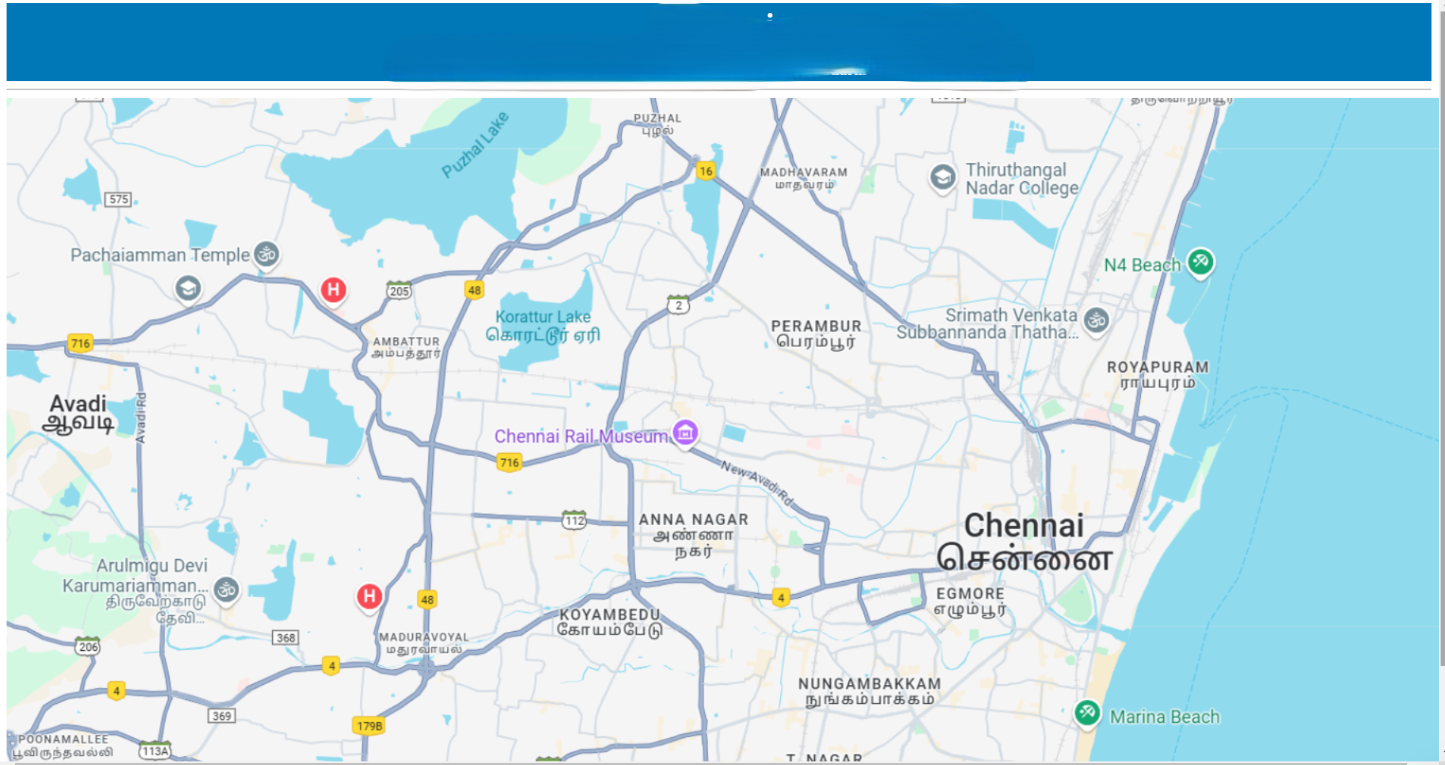
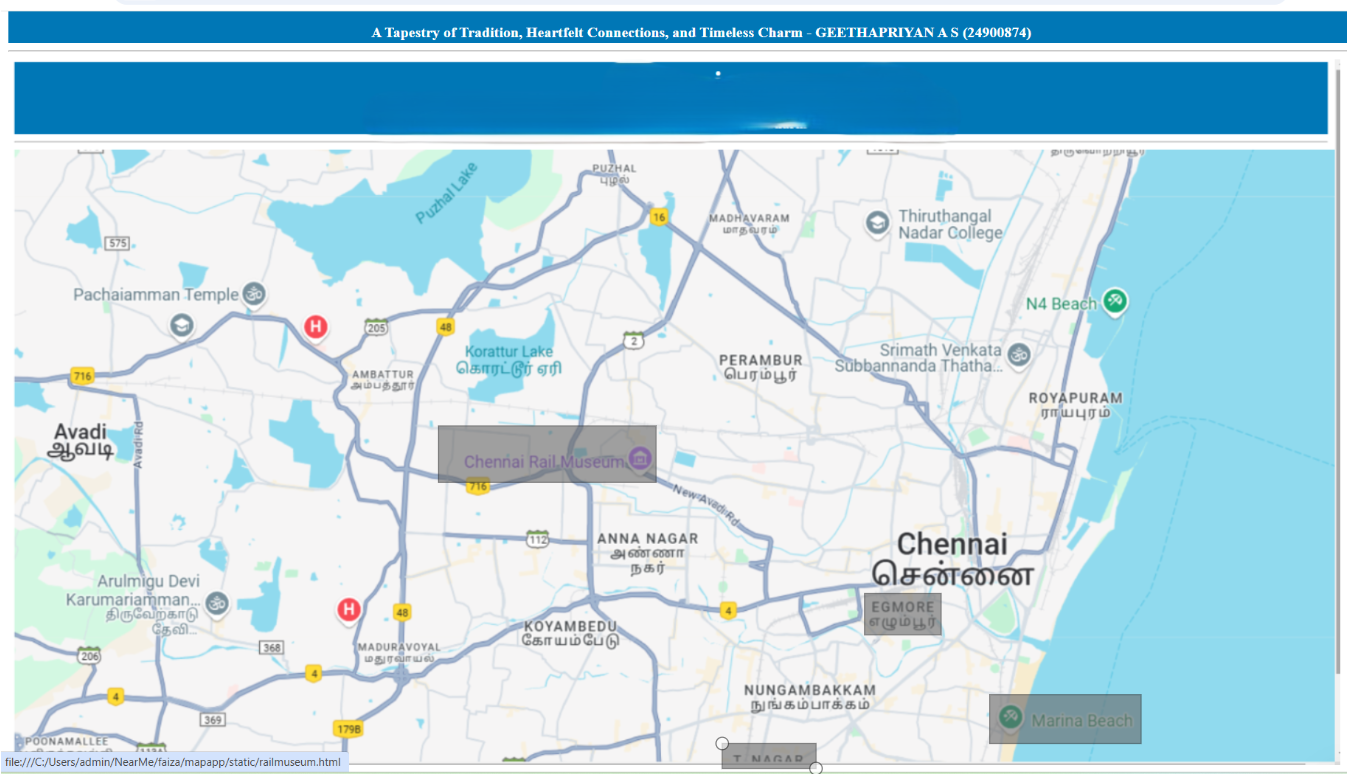
Success

diff --git a/varshini2/app5/static/home.html b/varshini2/app5/static/home.html
@@ -4,7 +4,7 @@
 </head>
 <body bgcolor="#fff3e0">
 <h1 align="center">
-<font color="#36454F"><b>VADAPALANI</b></font>
+<font color="#36454F"><b>ANNA NAGAR</b></font>
 </h1>
 <h3 align="center">
 <font color="#FFD700"><b>My Home Town</b></font>
@@ -12,7 +12,7 @@
 <hr size="3" color="#ffccbc">
 <p align="justify">
 <font face="Georgia" size="5" color="#212121">
-     vadapalani in koyambedu is very peaceful.residential area that offers a perfect blend of modern amenities and natural beauty. The locality is known for its friendly, close-knit community, where neighbors know each other well. With plenty of greenery, open spaces, and parks, it provides a calm environment away from the hustle and bustle of city life. The area is well-connected to major roads and public transport, making it easy to commute to other parts of Chennai. Local shops and markets offer everyday conveniences, while nearby schools and hospitals add to its appeal. The Porur Lake is a popular spot for relaxation and outdoor activities. Mangala Nadar is ideal for families, offering a safe, family-oriented atmosphere. The growing infrastructure and development around the area continue to improve living standards. The sense of community and cultural ties make Mangala Nadar a truly special place. It’s a great place to call home, offering both tranquility and convenience.
+     annanagar in koyambedu is very peaceful.residential area that offers a perfect blend of modern amenities and natural beauty. The locality is known for its friendly, close-knit community, where neighbors know each other well. With plenty of greenery, open spaces, and parks, it provides a calm environment away from the hustle and bustle of city life. The area is well-connected to major roads and public transport, making it easy to commute to other parts of Chennai. Local shops and markets offer everyday conveniences, while nearby schools and hospitals add to its appeal. The Porur Lake is a popular spot for relaxation and outdoor activities. Mangala Nadar is ideal for families, offering a safe, family-oriented atmosphere. The growing infrastructure and development around the area continue to improve living standards. The sense of community and cultural ties make Mangala Nadar a truly special place. It’s a great place to call home, offering both tranquility and convenience.
 
 </font>
 </p>
@@ -20,20 +20,4 @@
 </html>
 
 
-</font>
-</p>
-</body>
-</html>
 
-
-
-</font>
-</p>
-</body>
-</html>
-
-
-</font>
-</p>
-</body>
-</html>

diff --git a/varshini2/app5/static/college.html b/varshini2/app5/static/college.html
@@ -4,17 +4,16 @@
 </head>
 <body bgcolor="#f5f5f5">
 <h1 align="center">
-<font color="#2e3a87"><b>The Tamil Nadu Dr. M.G.R. Medical University</b></font>
+<font color="#2e3a87"><b>ACS MEDICAL COLLEGE</b></font>
 </h1>
 <h3 align="center">
-<font color="#ff6347"><b>Chennai's Top Government University</b></font>
+<font color="#ff6347"><b>ITS FAMOUS FOR DOCTOR</b></font>
 </h3>
 <hr size="3" color="#dcdcdc">
 <p align="justify">
 <font face="Arial, sans-serif" size="4" color="#333333">
 
-    Dr. M.G.R. Medical University, officially known as The Tamil Nadu Dr. M.G.R. Medical University, is one of the premier medical institutions in India, located in Chennai, Tamil Nadu. Established in 1987, the university is named after the former Chief Minister of Tamil Nadu, M.G. Ramachandran (MGR), who was a prominent leader and philanthropist. It was set up with the goal of providing high-quality education in the field of medicine, and it has since grown to become one of the leading medical universities in the country.
-
+    ACS Medical College and Hospital is a premier medical institution in Chennai, India. It is part of the Dr. MGR Educational and Research Institute, a deemed-to-be university. The college offers undergraduate and postgraduate programs in medicine and allied health sciences, focusing on high-quality education, research, and clinical training. With state-of-the-art facilities, experienced faculty, and a commitment to holistic healthcare, ACS Medical College aims to produce skilled medical professionals to serve society effectively.
 </font>
 </p>
 </body>

diff --git a/varshini2/app5/static/map.html b/varshini2/app5/static/map.html
@@ -10,13 +10,13 @@
 <font color="purple"><b>GEETHAPRIYAN A S(24900874)</b></font>
 </h3>
 <center>
-<img src="C:\Users\admin\NearMe\varshini2\app5\static\Screenshot 2024-12-04 102706.png" usemap="#MyCity">
+<img src="map2.png" usemap="#MyCity">
 <map name="MyCity">
-<area shape="rect" coords="1113,563,1327" href="home.html" title="My Home (Mangala Nagar)">
-<area shape="circle" coords="1135,340,100" href="Temple.html" title="Temple">
-<area shape="circle" coords="1278,444,103" href="Shopping_Mall.html" title="Shopping_Mall">
-<area shape="circle" coords="1803,508,100" href="College.html" title="College">
-<area shape="circle" coords="856,410,1059" href="theatre.html" title="theatre">
+    <area target="_blank" alt="rohini theatre" title="rohini theatre" href="theatre.html" coords="1296,464,1077,390" shape="rect">
+    <area target="" alt="murugan temple" title="murugan temple" href="temple.html" coords="1433,725,1624,862" shape="rect">
+    <area target="_blank" alt="" title="" href="pitshop.html" coords="472,52,663,120" shape="rect">
+    <area target="" alt="college" title="college" href="college.html" coords="77,627,296,740" shape="rect">
+    <area target="" alt="home" title="home" href="home.html" coords="1414,258,1553,346" shape="rect">
 </center>
 </body>
 </html>

diff --git a/varshini2/app5/static/pitshop.html b/varshini2/app5/static/pitshop.html
@@ -1,0 +1,20 @@
+<html>
+<head>
+<title>My Home Town</title>
+</head>
+<body bgcolor="#fff3e0">
+<h1 align="center">
+<font color="#d32f2f"><b>TTF PITSHOP</b></font>
+</h1>
+<h3 align="center">
+<font color="#0288d1"><b>FAMOUS FOR BIKE ACCESSORIES</b></font>
+</h3>
+<hr size="3" color="#ffccbc">
+<p align="justify">
+<font face="Georgia" size="5" color="#212121">
+
+    TTF Pitshop is a popular automotive service and accessories shop that specializes in providing high-quality products and services for car enthusiasts. Known for its wide range of automotive parts, performance accessories, and customization services, TTF Pitshop caters to a variety of customer needs, from car repairs to upgrades. The shop is recognized for its expertise in enhancing vehicle performance and aesthetics, offering professional consultation and a customer-friendly experience. Whether it's tuning, spare parts, or vehicle enhancements, TTF Pitshop stands out for its commitment to quality and customer satisfaction.
+</font>
+</p>
+</body>
+</html>

diff --git a/faiza/mapapp/static/map.html b/faiza/mapapp/static/map.html
@@ -13,15 +13,17 @@
         </tr>
     </table>
     <hr>
-       <img src="map.png        " usemap="#image-map">
+       <img src="map.png" usemap="#image-map">
 
 <map name="image-map">
-    <area target="" alt="" title="" href="egmore.html" coords="928,487,1116,591" shape="rect">
-    <area target="" alt="" title="" href="marina.html" coords="1097,612,1317,703" shape="rect">
-    <area target="" alt="" title="" href="railmuseum.html" coords="471,306,772,413" shape="rect">
-    <area target="" alt="" title="" href="tnagar.html" coords="769,672,950,767" shape="rect">
+    <area target=" " alt="" title="" href="egmore.html" coords="1171,899,1274,955" shape="rect">
+    <area target=" " alt="" title="" href="marina.html" coords="1340,1036,1545,1101" shape="rect">
+    <area target=" " alt="" title="" href="railmuseum.html" coords="593,672,888,748" shape="rect">
+    <area target=" " alt="" title="" href="tnagar.html" coords="977,1101,1105,1136s" shape="rect">
     
 </map>
+
+
     
 
 </body>

diff --git a/varshini2/varshini2/settings.py b/varshini2/varshini2/settings.py
@@ -116,7 +116,8 @@ USE_TZ = True
 # https://docs.djangoproject.com/en/5.1/howto/static-files/
 
 STATIC_URL = 'static/'
-STATICFILES_DIRS=[os.path.join(BASE_DIR,'app5/static)]
+STATICFILES_DIRS=[os.path.join(BASE_DIR,'app5/static')]
+
 
 # Default primary key field type
 # https://docs.djangoproject.com/en/5.1/ref/settings/#default-auto-field

diff --git a/README.md b/README.md
@@ -40,16 +40,19 @@ MAP.HTML
 <font color="purple"><b>GEETHAPRIYAN A S(24900874)</b></font>
 </h3>
 <center>
-<img src="C:\Users\admin\Pictures\Screenshots\Screenshot 2024-12-04 102706.png" usemap="#MyCity">
+<img src="map2.png" usemap="#MyCity">
 <map name="MyCity">
-<area shape="rect" coords="1113,563,1327,747" href="home.html" title="My Home (Mangala Nagar)">
-<area shape="circle" coords="1135,340,100" href="Temple.html" title="Temple">
-<area shape="circle" coords="1278,444,103" href="Shopping_Mall.html" title="Shopping_Mall">
-<area shape="circle" coords="1803,508,100" href="College.html" title="College">
-<area shape="circle" coords="856,410,1059,541" href="theatre.html" title="theatre">
+    <area target="_blank" alt="rohini theatre" title="rohini theatre" href="theatre.html" coords="1296,464,1077,390" shape="rect">
+    <area target="" alt="murugan temple" title="murugan temple" href="temple.html" coords="1433,725,1624,862" shape="rect">
+    <area target="_blank" alt="" title="" href="pitshop.html" coords="472,52,663,120" shape="rect">
+    <area target="" alt="college" title="college" href="college.html" coords="77,627,296,740" shape="rect">
+    <area target="" alt="home" title="home" href="home.html" coords="1414,258,1553,346" shape="rect">
 </center>
 </body>
 </html>
+
+
+
 
 ```
 HOME.HTML
@@ -60,7 +63,7 @@ HOME.HTML
 </head>
 <body bgcolor="#fff3e0">
 <h1 align="center">
-<font color="#36454F"><b>VADAPALANI</b></font>
+<font color="#36454F"><b>ANNA NAGAR</b></font>
 </h1>
 <h3 align="center">
 <font color="#FFD700"><b>My Home Town</b></font>
@@ -68,7 +71,7 @@ HOME.HTML
 <hr size="3" color="#ffccbc">
 <p align="justify">
 <font face="Georgia" size="5" color="#212121">
-     vadapalani in koyambedu is very peaceful.residential area that offers a perfect blend of modern amenities and natural beauty. The locality is known for its friendly, close-knit community, where neighbors know each other well. With plenty of greenery, open spaces, and parks, it provides a calm environment away from the hustle and bustle of city life. The area is well-connected to major roads and public transport, making it easy to commute to other parts of Chennai. Local shops and markets offer everyday conveniences, while nearby schools and hospitals add to its appeal. The Porur Lake is a popular spot for relaxation and outdoor activities. Mangala Nadar is ideal for families, offering a safe, family-oriented atmosphere. The growing infrastructure and development around the area continue to improve living standards. The sense of community and cultural ties make Mangala Nadar a truly special place. It’s a great place to call home, offering both tranquility and convenience.
+     annanagar in koyambedu is very peaceful.residential area that offers a perfect blend of modern amenities and natural beauty. The locality is known for its friendly, close-knit community, where neighbors know each other well. With plenty of greenery, open spaces, and parks, it provides a calm environment away from the hustle and bustle of city life. The area is well-connected to major roads and public transport, making it easy to commute to other parts of Chennai. Local shops and markets offer everyday conveniences, while nearby schools and hospitals add to its appeal. The Porur Lake is a popular spot for relaxation and outdoor activities. Mangala Nadar is ideal for families, offering a safe, family-oriented atmosphere. The growing infrastructure and development around the area continue to improve living standards. The sense of community and cultural ties make Mangala Nadar a truly special place. It’s a great place to call home, offering both tranquility and convenience.
 
 </font>
 </p>
@@ -76,23 +79,8 @@ HOME.HTML
 </html>
 
 
-</font>
-</p>
-</body>
-</html>
 
 
-
-</font>
-</p>
-</body>
-</html>
-
-
-</font>
-</p>
-</body>
-</html>
 
 ```
 TEMPLE.HTML
@@ -118,6 +106,8 @@ TEMPLE.HTML
 </p>
 </body>
 </html>
+
+
 
 ```
 THEATRE.HTML
@@ -145,8 +135,9 @@ THEATRE.HTML
 </body>
 </html>
 
+
 ```
-SHOPPINGMALL.HTML
+PITSHOP.HTML
 ```
 <html>
 <head>
@@ -154,37 +145,31 @@ SHOPPINGMALL.HTML
 </head>
 <body bgcolor="#fff3e0">
 <h1 align="center">
-<font color="#d32f2f"><b>Shopping Mall</b></font>
+<font color="#d32f2f"><b>TTF PITSHOP</b></font>
 </h1>
 <h3 align="center">
-<font color="#0288d1"><b>VR MALL - Chennai's Top Retail Destination</b></font>
+<font color="#0288d1"><b>FAMOUS FOR BIKE ACCESSORIES</b></font>
 </h3>
 <hr size="3" color="#ffccbc">
 <p align="justify">
 <font face="Georgia" size="5" color="#212121">
 
-    A Shopping Paradise in the Heart of Chennai."
-    VR Mall at Koyambedu is known for offering a wide range of shopping, dining, and entertainment options, making it a favorite destination for locals and tourists alike.
-    
-    "Where Shopping Meets Entertainment."
-    With various stores, a multiplex, and leisure facilities, VR Mall is not just a shopping center but an entertainment hub too.
-
+    TTF Pitshop is a popular automotive service and accessories shop that specializes in providing high-quality products and services for car enthusiasts. Known for its wide range of automotive parts, performance accessories, and customization services, TTF Pitshop caters to a variety of customer needs, from car repairs to upgrades. The shop is recognized for its expertise in enhancing vehicle performance and aesthetics, offering professional consultation and a customer-friendly experience. Whether it's tuning, spare parts, or vehicle enhancements, TTF Pitshop stands out for its commitment to quality and customer satisfaction.
 </font>
 </p>
 </body>
 </html>
+
 ```
 
 
-
-
-## OUTPUT
-![alt text](<Screenshot 2024-12-10 101411.png>)
-![alt text](<Screenshot 2024-12-10 101313.png>)
-![alt text](<Screenshot 2024-12-10 101244.png>)
-![alt text](<Screenshot 2024-12-10 101224-1.png>)
-![alt text](<Screenshot 2024-12-10 101009.png>)
-
+OUTPUT
+![alt text](<varshini2/map for ex 4.png>)
+![alt text](varshini2/college.png)
+![alt text](varshini2/home.html.png)
+![alt text](<varshini2/rohini theatre.png>)
+![alt text](varshini2/pitshop.png)
+![alt text](varshini2/temple.png)
 
 
 ## RESULT
